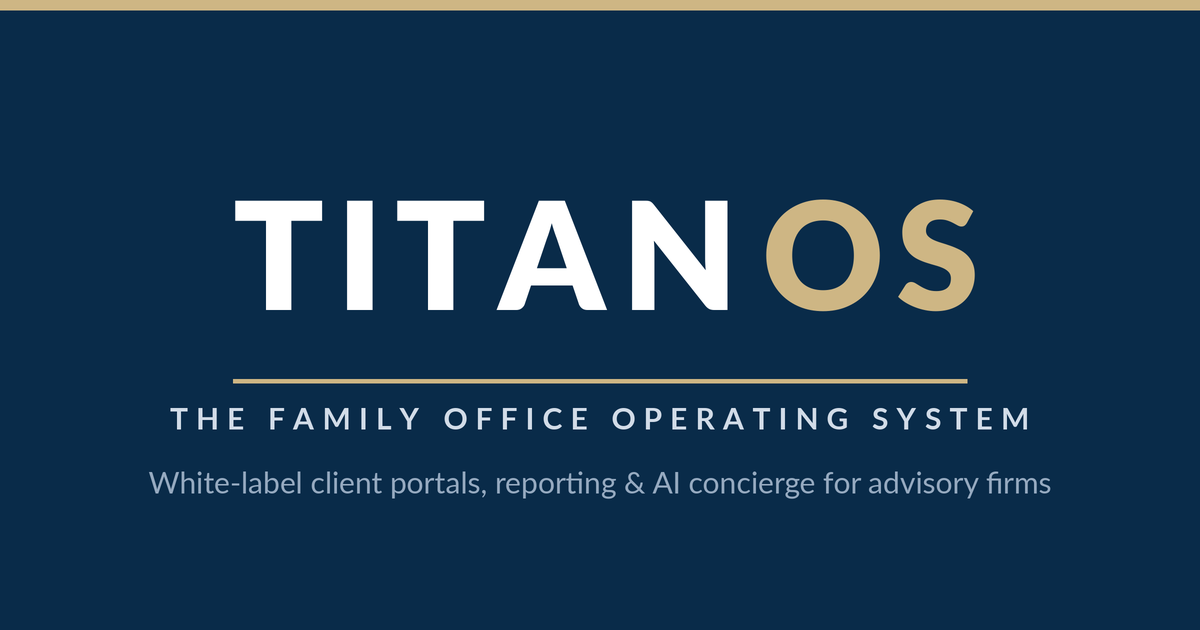
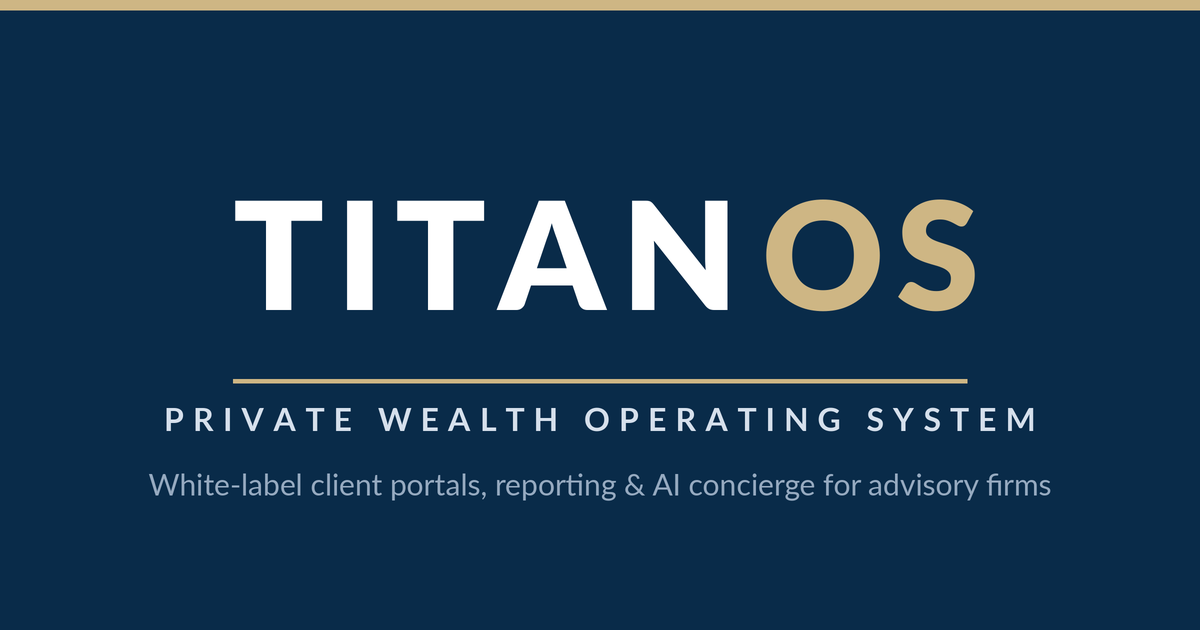
TitanOS tagline: Private Wealth Operating System
Updates the share image, the build-time meta description, the in-app
default tagline, and the provisioning runbook. The live TitanOS brand
profile row was updated in the database to match.

Changed region(s): [[0.1233, 0.6333, 0.8633, 0.6937], [0.1233, 0.754, 0.8942, 0.8143]]

diff --git a/src/App.jsx b/src/App.jsx
@@ -29,7 +29,7 @@ const sb = createClient(SUPABASE_URL, SUPABASE_KEY);
 const BRAND = {
   name: import.meta.env.VITE_BRAND_NAME || "TitanOS",
   short: import.meta.env.VITE_BRAND_SHORT || "TitanOS",
-  tagline: import.meta.env.VITE_BRAND_TAGLINE || "THE FAMILY OFFICE OPERATING SYSTEM",
+  tagline: import.meta.env.VITE_BRAND_TAGLINE || "PRIVATE WEALTH OPERATING SYSTEM",
   contactEmail: import.meta.env.VITE_BRAND_CONTACT_EMAIL || "",
   emailDomain: import.meta.env.VITE_BRAND_EMAIL_DOMAIN || "titanos.com",
   logo: import.meta.env.VITE_BRAND_LOGO_URL || "/titanos-logo-full.png",

diff --git a/vite.config.js b/vite.config.js
@@ -12,7 +12,7 @@ import react from '@vitejs/plugin-react'
 const TITANOS_DEFAULTS = {
   name: 'TitanOS',
   short: 'TitanOS',
-  description: 'TitanOS — the family office operating system. White-label client portals, reporting, and AI concierge for advisory firms.',
+  description: 'TitanOS — the private wealth operating system. White-label client portals, reporting, and AI concierge for advisory firms.',
   ogImage: '/titanos-og.png',
   primary: '#092b49',
   favicon: '/titanos-favicon.ico',
